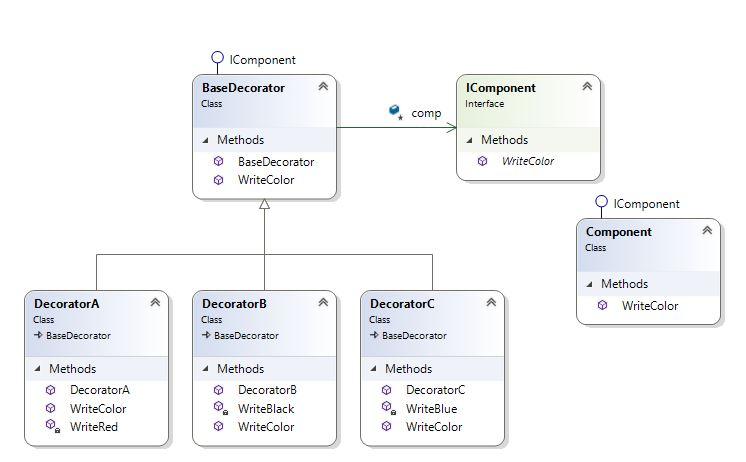
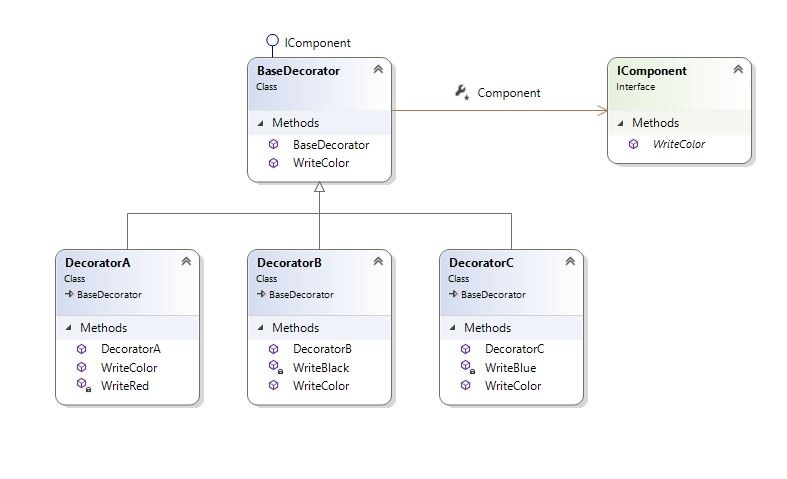
fluent builder modified, decorator diagram modified

diff --git a/DesignPatterns/DecoratorLibrary/Decorators/BaseDecorator.cs b/DesignPatterns/DecoratorLibrary/Decorators/BaseDecorator.cs
@@ -4,12 +4,12 @@ namespace DecoratorLibrary.Decorators
 {
     internal class BaseDecorator : IComponent
     {
-        protected IComponent Component;
+        protected IComponent Component { get; }
 
         // aggregation in constructor
         public BaseDecorator(IComponent component)
         {
-            Component = component;                         
+            Component = component;
         }
 
         // virtual method to be overriden in child-decorators

diff --git a/DesignPatterns/FluentBuilder/FluentBuilder/Program.cs b/DesignPatterns/FluentBuilder/FluentBuilder/Program.cs
@@ -11,7 +11,7 @@ namespace FluentBuilder
                 .SetLastname("Kolosov")
                 .SetAge(26)
                 .SetCity("Berlin")
-                .SetCounty("GR");
+                .SetCounty("DE");
 
             Console.WriteLine(p1);
         }
